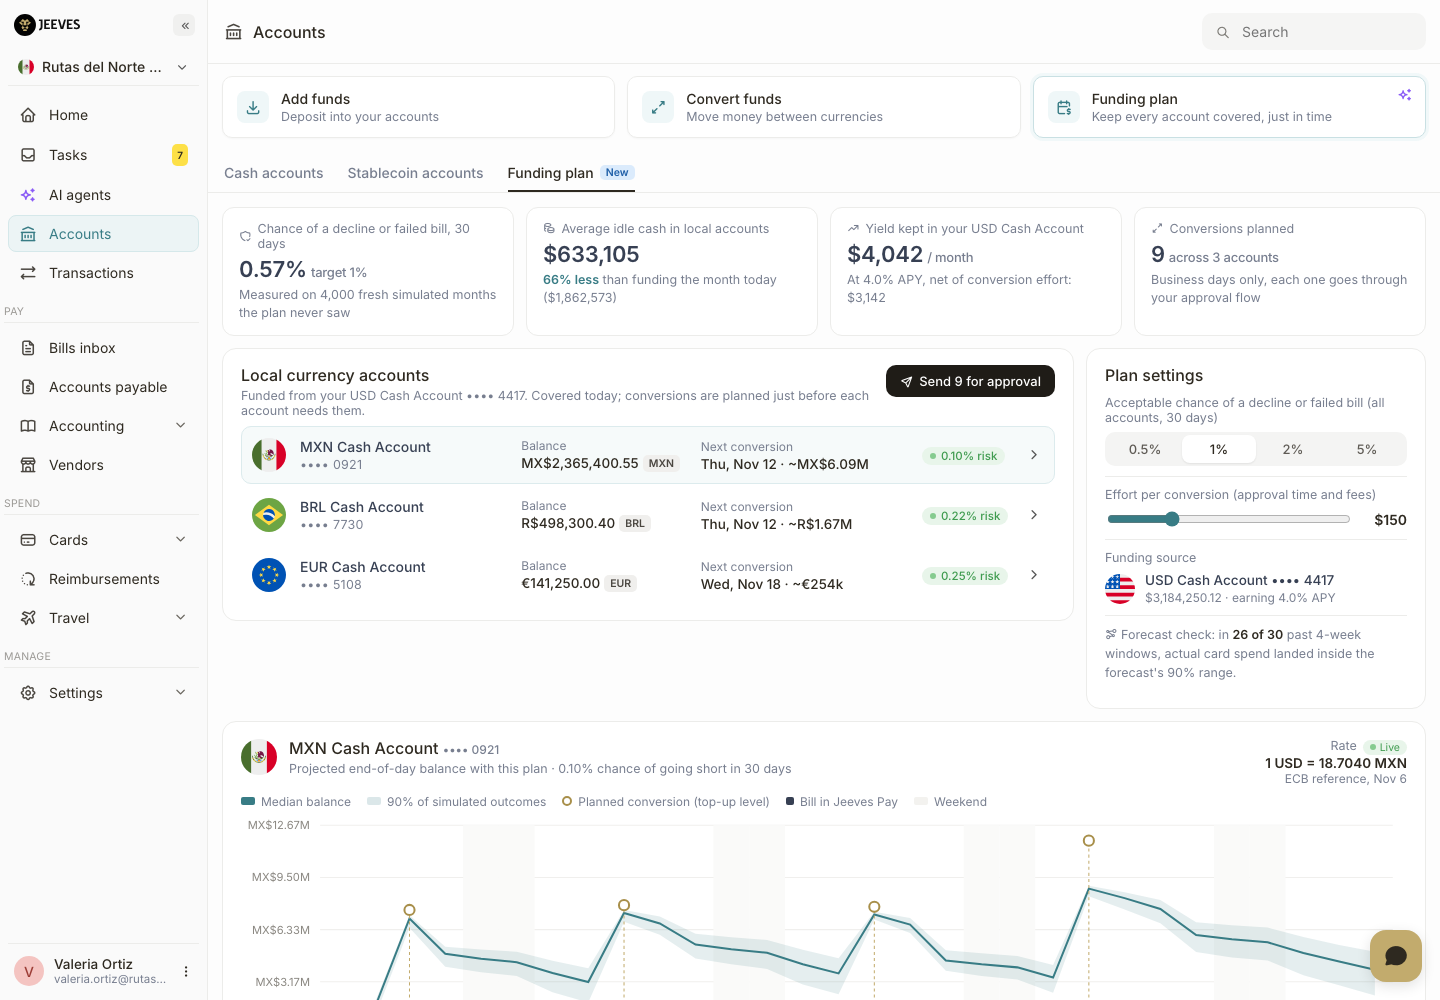
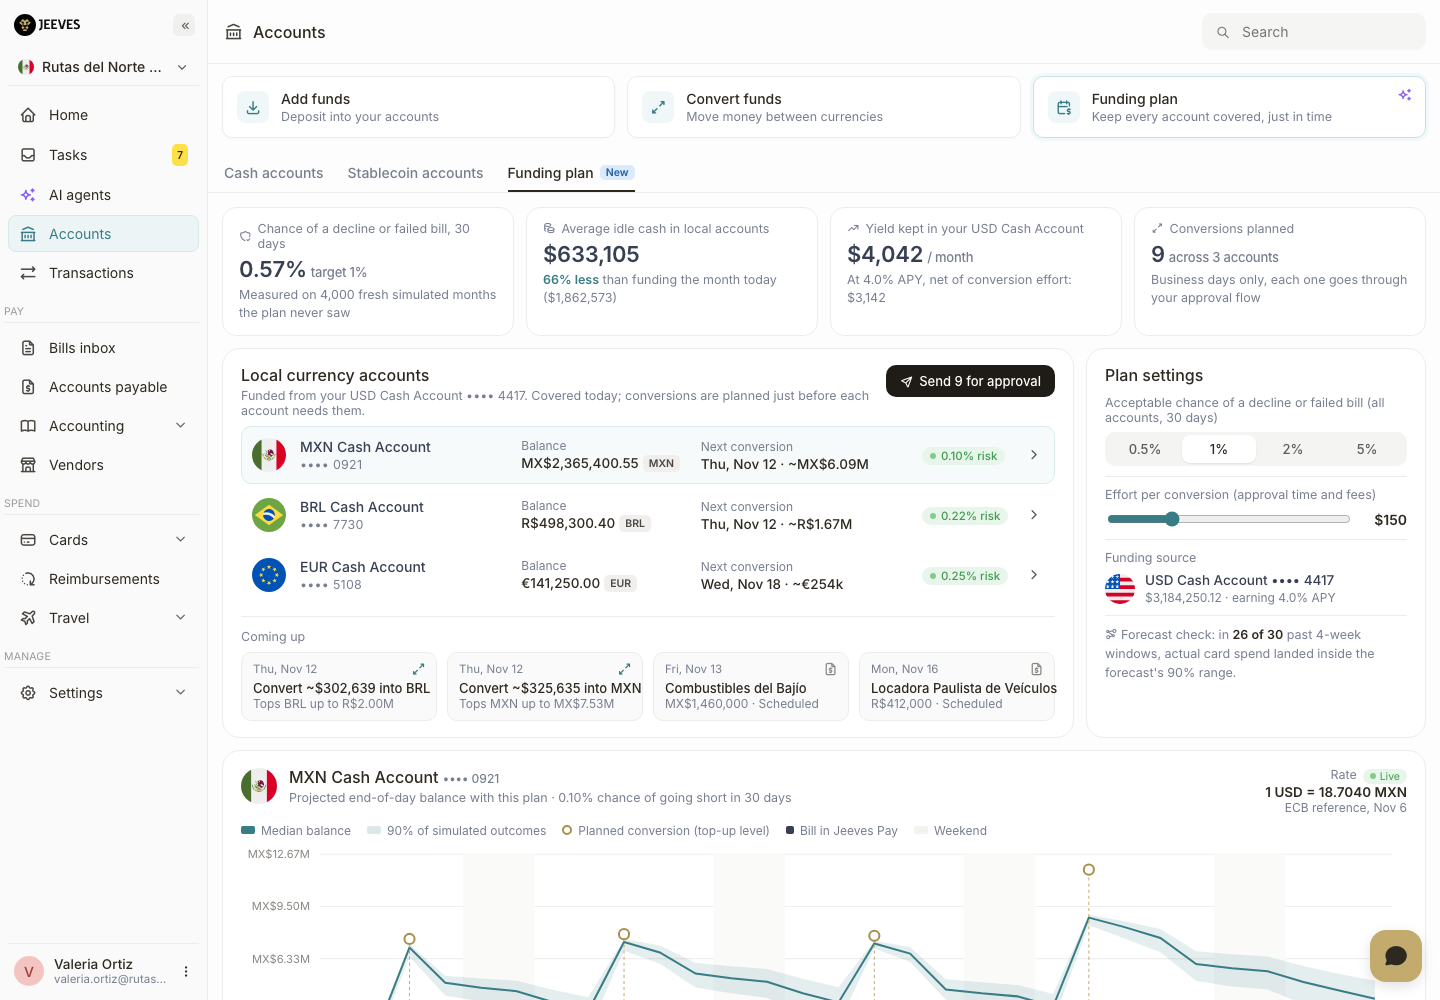
Add coming-up strip; layout fixes

diff --git a/styles.css b/styles.css
@@ -76,7 +76,7 @@ main { padding: 0 0 20px; min-width: 0; }
 .kpi .s { font-size: 12.5px; color: var(--muted); margin-top: 4px; line-height: 1.4; }
 .kpi .s b { color: var(--teal); font-weight: 600; }
 
-.grid2 { display: grid; grid-template-columns: 1fr 340px; gap: 12px; padding: 12px 14px 0; align-items: start; }
+.grid2 { display: grid; grid-template-columns: minmax(0, 1fr) 340px; gap: 12px; padding: 12px 14px 0; align-items: stretch; }
 .card { background: #fff; border: 1px solid var(--line); border-radius: 18px; margin: 12px 14px 0; padding: 16px 18px; }
 .grid2 .card { margin: 0; }
 .card h3 { margin: 0; font-size: 16px; font-weight: 500; color: var(--ink); }
@@ -152,3 +152,14 @@ footer { color: #a3a09b; font-size: 11.5px; text-align: center; padding: 22px 0 
 .chat { position: fixed; right: 18px; bottom: 18px; width: 52px; height: 52px; border-radius: 16px; background: #c2ab6d; border: 0; color: #2e2920; font-size: 26px; display: grid; place-items: center; box-shadow: 0 4px 14px rgba(0,0,0,.12); }
 .skel { color: var(--muted); padding: 30px; text-align: center; }
 .busy { opacity: .55; transition: opacity .15s; }
+
+.up { margin-top: 12px; border-top: 1px solid var(--line); padding-top: 12px; }
+.uph { font-size: 12.5px; color: var(--muted); margin-bottom: 8px; }
+.upl { display: grid; grid-template-columns: repeat(4, minmax(0, 1fr)); gap: 10px; }
+.ue { display: grid; grid-template-columns: 1fr; gap: 4px; background: #fafafa; border: 1px solid var(--line); border-radius: 10px; padding: 9px 11px; position: relative; }
+.ue .ud { font-size: 11.5px; color: var(--muted); }
+.ue i { position: absolute; right: 10px; top: 9px; font-size: 15px; color: #8a8781; }
+.ue.conv i { color: var(--teal); }
+.ue b { display: block; font-weight: 500; font-size: 13px; white-space: nowrap; overflow: hidden; text-overflow: ellipsis; }
+.ue span:not(.ud) { display: block; font-size: 12px; color: var(--muted); white-space: nowrap; overflow: hidden; text-overflow: ellipsis; }
+.ue { min-width: 0; }

diff --git a/app.js b/app.js
@@ -59,9 +59,20 @@ function renderAccounts() {
   const usd = data.accounts.find((a) => a.treasury);
   $('accounts').innerHTML = `<div class="head"><div><h3>Local currency accounts</h3>
     <div class="sub">Funded from your USD Cash Account •••• ${usd.mask}. Covered today; conversions are planned just before each account needs them.</div></div>
-    <button class="btn dark" id="sendAll"><i class="ti ti-send"></i>Send ${R.results.reduce((a, x) => a + x.topups.length, 0)} for approval</button></div>${rows}`;
+    <button class="btn dark" id="sendAll"><i class="ti ti-send"></i>Send ${R.results.reduce((a, x) => a + x.topups.length, 0)} for approval</button></div>${rows}${upcoming()}`;
   document.querySelectorAll('.acct').forEach((el) => el.addEventListener('click', () => { state.sel = el.dataset.c; renderAccounts(); renderDetail(); }));
   $('sendAll').addEventListener('click', (e) => { e.currentTarget.innerHTML = '<i class="ti ti-check"></i>Drafts created in Accounts payable'; });
+}
+
+function upcoming() {
+  const ev = [];
+  for (const r of R.results) {
+    r.topups.forEach((t) => ev.push({ d: t.date, k: 'conv', txt: `Convert ~$${nf(t.usdMed)} into ${r.ccy}`, sub: `Tops ${r.ccy} up to ${short(r.ccy, t.level)}` }));
+    r.bills.forEach((b) => ev.push({ d: b.date, k: 'bill', txt: b.vendor, sub: `${money(r.ccy, b.amount)} · ${b.status}` }));
+  }
+  ev.sort((a, b) => a.d.localeCompare(b.d) || (a.k === 'conv' ? -1 : 1));
+  const next = ev.slice(0, 4);
+  return `<div class="up"><div class="uph">Coming up</div><div class="upl">${next.map((e) => `<div class="ue ${e.k}"><span class="ud">${dt(e.d)}</span><i class="ti ${e.k === 'conv' ? 'ti-arrows-diagonal' : 'ti-file-dollar'}"></i><div><b>${e.txt}</b><span>${e.sub}</span></div></div>`).join('')}</div></div>`;
 }
 
 function renderControls() {
